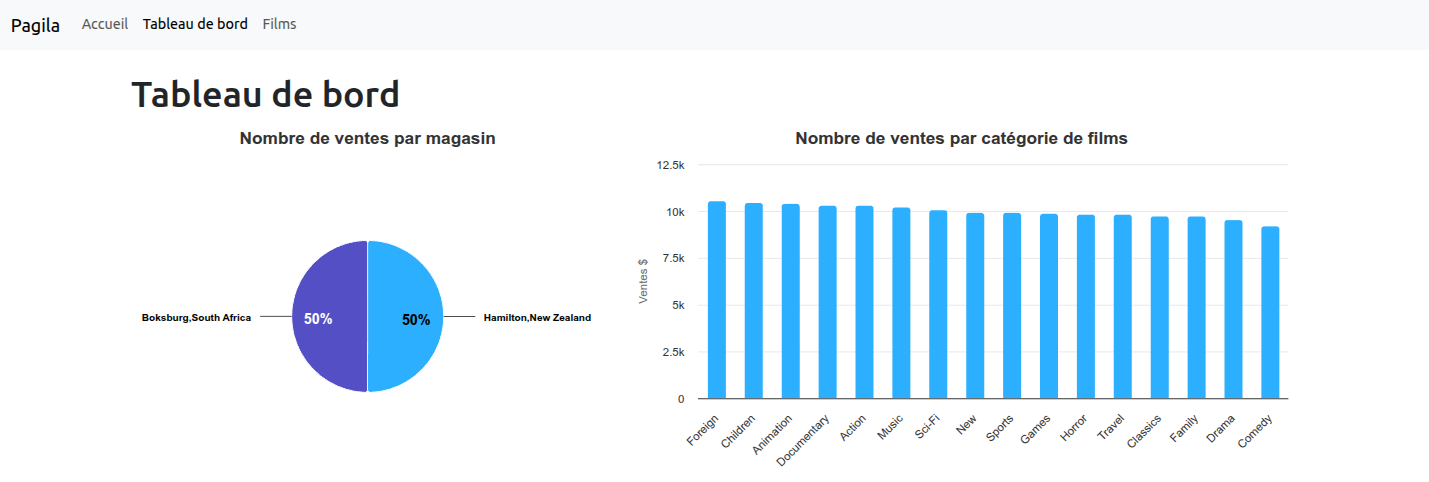
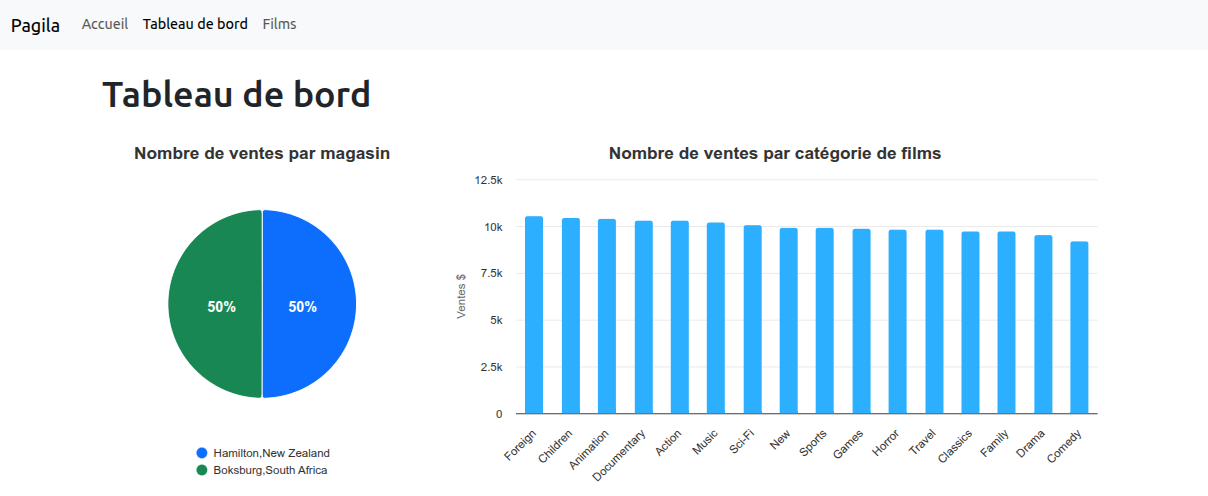
dashboard: modifications graphique ventes selon magasin
graphique ventes selon magasin:
- affichage de la valeur total en ventes et pourcentage au survol
- legende pour afficher nom des magasins, suppression des etiquettes
- nouvelle palette de couleur

diff --git a/src/app/dashboard/constants.ts b/src/app/dashboard/constants.ts
@@ -1,0 +1,63 @@
+import * as Highcharts from 'highcharts';
+
+// TODO: prendre vrai palette, utilise couleurs de bootstrap temporairement
+const paletteColors = [
+    "var(--bs-primary)",
+    "var(--bs-success)",
+    "var(--bs-warning)",
+    "var(--bs-danger)",
+    "var(--bs-info)",
+    "var(--bs-secondary)",
+]
+
+
+export const SALES_BY_STORE_OPTIONS : Highcharts.Options =  {
+    credits: {
+        enabled: false,
+    },
+    title: {
+        text: "Nombre de ventes par magasin",
+        widthAdjust: 50,
+    },
+    tooltip: {
+        pointFormat: 'value: {point.y} ({point.percentage:.1f}%)',
+        style: {
+            fontSize: "1.0em"
+        }
+    },
+    colors: paletteColors,
+    plotOptions: {
+        pie: {
+            cursor: 'pointer',
+            dataLabels: {
+                enabled: true,
+                color: "white",
+            },
+            showInLegend: true,
+        },
+    },
+    legend: {
+        enabled: true,
+    },
+    series: [
+        {
+            type: 'pie',
+            size: '80%',
+            dataLabels: [
+                {
+                    format: '{point.percentage:.0f}%',
+                    distance: -60,
+                    style: {
+                        fontSize: '1.0em',
+                        textOutline: 'none',
+                        fontColor: "white",
+                    }
+                }
+            ],
+            data : [
+                ['Magasin 1', 66],
+                ['Magasin 2', 34],
+            ]
+        }
+    ]
+}

diff --git a/src/app/dashboard/charts.ts b/src/app/dashboard/charts.ts
@@ -25,44 +25,6 @@ export function createChart(
     };
 }
 
-export function createPieChartOptions(
-    text: string,
-    data: any[],
-): Highcharts.Options {
-    return {
-        credits : {
-            enabled: false,
-        },
-        title: {
-            text,
-        },
-        tooltip: {
-            valueSuffix: '%'
-        },
-        series: [
-            {
-                type: 'pie',
-                size:'50%',
-                dataLabels: [
-                    {
-                        format: '{point.name}',
-                        connectorColor: 'var(--highcharts-neutral-color-80, #333)'
-                    },
-                    {
-                        format: '{point.percentage:.0f}%',
-                        distance: -30,
-                        style: {
-                            fontSize: '1.0em',
-                            textOutline: 'none'
-                        }
-                    }
-                ],
-                data,
-            }
-        ]
-    }
-}
-
 export function createColumnChartOptions(
     text: string,
     categories: string[],
@@ -83,7 +45,7 @@ export function createColumnChartOptions(
             crosshair: true,
         },
         yAxis: {
-            min: 0, // hardcodé
+            min: 0,
             title: {
                 text: yAxisTitle,
             }

diff --git a/src/app/dashboard/dashboard.component.ts b/src/app/dashboard/dashboard.component.ts
@@ -1,10 +1,10 @@
 import { Component, OnInit } from '@angular/core';
 import { HighchartsChartModule } from 'highcharts-angular';
 import { DashboardService } from './dashboard.service';
+import * as constants from './constants';
 import {
     SimpleChart,
     createChart,
-    createPieChartOptions,
     createColumnChartOptions,
 } from './charts';
 import { SeriesLineOptions, Axis } from 'highcharts';
@@ -18,13 +18,7 @@ import { SeriesLineOptions, Axis } from 'highcharts';
 })
 export class DashboardComponent implements OnInit {
     public salesByStore: SimpleChart;
-    public salesByStoreOptions = createPieChartOptions(
-        'Nombre de ventes par magasin',
-        [
-            ['Magasin 1', 66],
-            ['Magasin 2', 34],
-        ],
-    )
+    public salesByStoreOptions = constants.SALES_BY_STORE_OPTIONS
 
     public salesByFilmCategory: SimpleChart;
     public salesByFilmCategoryOptions = createColumnChartOptions(
@@ -45,13 +39,13 @@ export class DashboardComponent implements OnInit {
             'Classics',
             'Family',
             'Drama',
-            'Comedy',
+            'Comedy', // TODO: eviter hardcode
         ],
-        'Ventes $',
+        "Ventes $",
         [
             182, 181, 178, 163, 158, 151, 143, 127, 124, 121, 120, 114, 108,
-            106, 106, 103,
-        ],
+            106, 106, 103, // valeurs fictives
+        ]
     )
     constructor(private dashboardService: DashboardService) {
         this.salesByStore = createChart(this.salesByStoreOptions)
@@ -60,6 +54,7 @@ export class DashboardComponent implements OnInit {
 
     ngOnInit() {
         this.dashboardService.getSalesByStore().subscribe((data: any) => {
+            // TODO: eviter cast explicite
             const series = this.salesByStoreOptions
                 .series as SeriesLineOptions[]
             series[0].data = data;
@@ -68,6 +63,7 @@ export class DashboardComponent implements OnInit {
         this.dashboardService
             .getSalesByFilmCategory()
             .subscribe((data: { categories: string[]; data: number[] }) => {
+            // TODO: eviter cast explicite
                 const series = this.salesByFilmCategoryOptions
                     .series as SeriesLineOptions[];
                 series[0].data = data.data;

diff --git a/src/app/dashboard/dashboard.component.html b/src/app/dashboard/dashboard.component.html
@@ -1,7 +1,7 @@
 <h1>Tableau de bord</h1>
 
-<div class="row">
-    <div class="col-md-5">
+<div class="row mt-4">
+    <div class="col-md-4">
         <highcharts-chart
             [Highcharts]="salesByStore.Highcharts"
             [constructorType]="salesByStore.chartConstructor"
@@ -13,7 +13,7 @@
             ></highcharts-chart>
     </div>
 
-    <div class="col-md-7">
+    <div class="col-md-8">
         <highcharts-chart
             [Highcharts]="salesByFilmCategory.Highcharts"
             [constructorType]="salesByFilmCategory.chartConstructor"

diff --git a/src/app/dashboard/dashboard.service.ts b/src/app/dashboard/dashboard.service.ts
@@ -5,7 +5,7 @@ import { environment } from '../../environments/environment'
 
 interface SalesByStoreDTO {
     store: string,
-    totalSalesPercentage: number,
+    totalSales: number,
 }
 
 interface SalesByFilmCategoryDTO {
@@ -25,7 +25,7 @@ export class DashboardService {
     getSalesByStore() {
         return this.http.get<any[]>(`${this.salesApiUrl}/by-store`).pipe(
             map((data: SalesByStoreDTO[]) => {
-                return data.map((e) => [e.store, e.totalSalesPercentage]) as any[]
+                return data.map((e) => [e.store, e.totalSales]) as any[]
             })
         );
     }

diff --git a/src/app/film/film-search-bar/film-search-bar.component.css b/src/app/film/film-search-bar/film-search-bar.component.css
@@ -1,0 +1,3 @@
+:host {
+    display: block;
+}

diff --git a/src/app/film/film-search-bar/film-search-bar.component.html b/src/app/film/film-search-bar/film-search-bar.component.html
@@ -1,5 +1,5 @@
 <input
-    class="form-control my-4"
+    class="form-control"
     type="text"
     placeholder="Recherche..."
     autofocus

diff --git a/src/app/film/film-table/film-table.component.html b/src/app/film/film-table/film-table.component.html
@@ -7,7 +7,7 @@
     </div>
 </div>
 
-<film-search-bar />
+<film-search-bar class="my-4"/>
 
 <table
     #sortedTarget